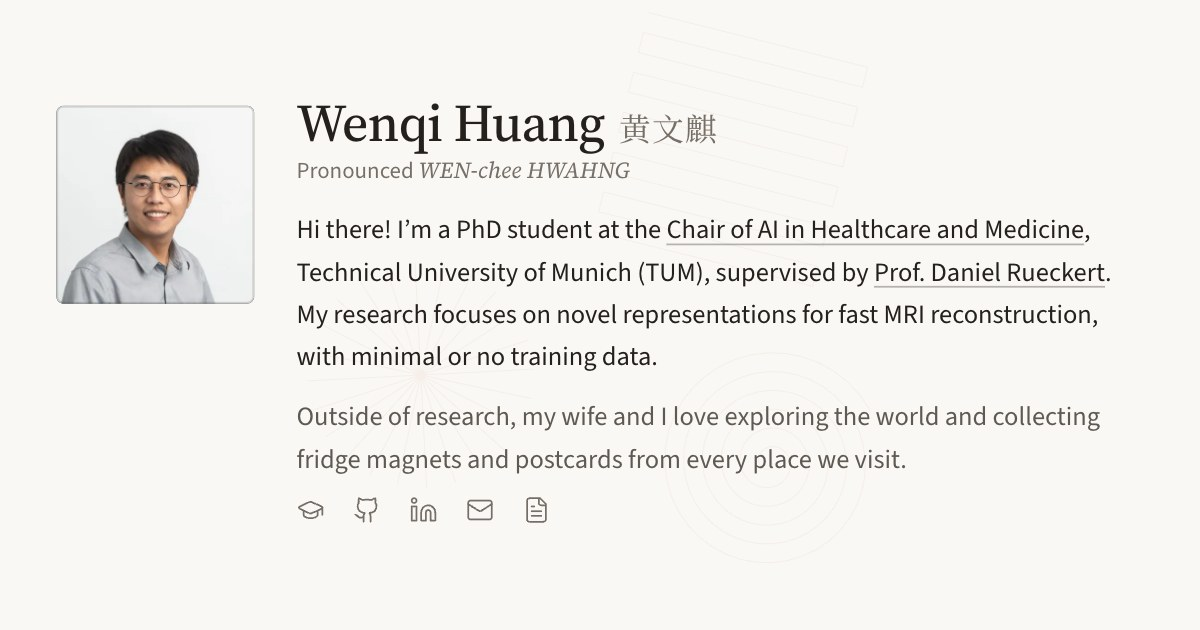
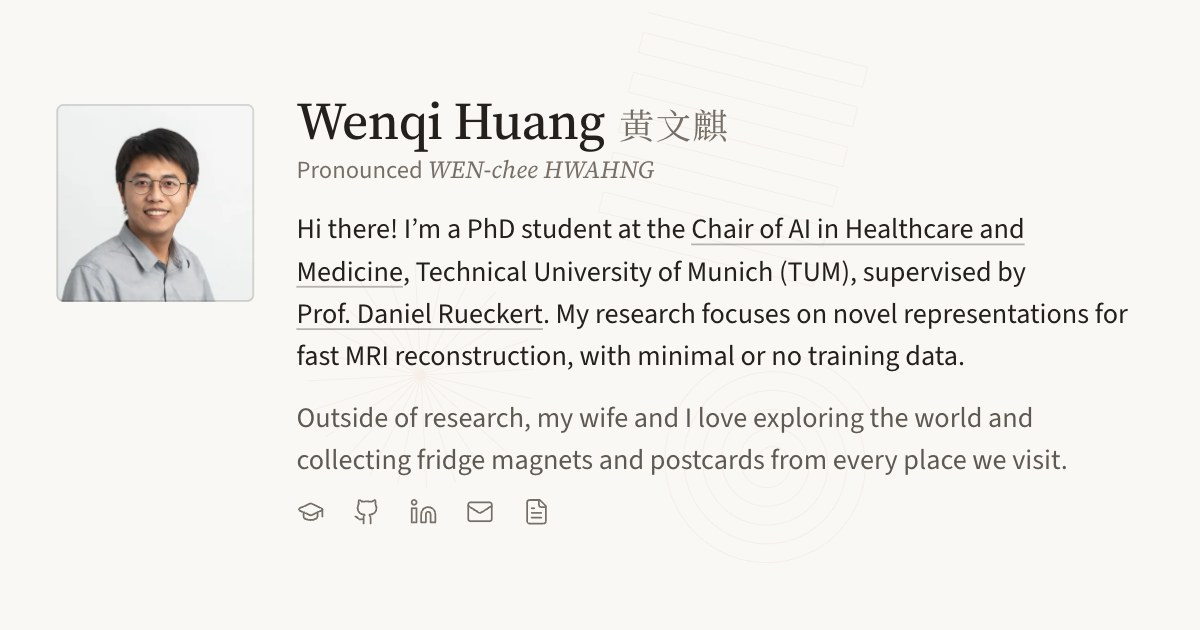
Set the text one size up
- Body and paper titles 15 -> 16px, meta, authors, details and nav 13 -> 14px,
  section headings and the Chinese name 18 -> 20px; tags stay 11px. The map
  tooltip joins the scale at 14/20, and the 404 page follows
- Meta column 112 -> 120px with a 16px gutter so 14px date ranges stay on one
  line; the text axis (136px), the 480px text column and the 112px photo are
  unchanged
- Link-preview card re-rendered for the new hero size

diff --git a/index.html b/index.html
@@ -9,12 +9,12 @@
   <meta property="og:description" content="PhD student at TUM researching novel representations for fast MRI reconstruction.">
   <meta property="og:type" content="website">
   <meta property="og:url" content="https://wenqihuang.me/">
-  <meta property="og:image" content="https://wenqihuang.me/images/og-card.jpg?v=20261011">
+  <meta property="og:image" content="https://wenqihuang.me/images/og-card.jpg?v=20261011.2">
   <meta property="og:image:width" content="1200">
   <meta property="og:image:height" content="630">
   <meta property="og:image:alt" content="Wenqi Huang, PhD student at TUM: photo, name and a short research bio">
   <meta name="twitter:card" content="summary_large_image">
-  <meta name="twitter:image" content="https://wenqihuang.me/images/og-card.jpg?v=20261011">
+  <meta name="twitter:image" content="https://wenqihuang.me/images/og-card.jpg?v=20261011.2">
   <!-- kept in sync with the active palette's --color-bg by syncThemeColor() -->
   <meta name="theme-color" content="#FAF8F4" id="theme-color">
 
@@ -26,9 +26,9 @@
     /* =========================================================
        The site's only stylesheet, inlined so the first paint needs no extra request
 
-       Grid   112 meta column · 24 gutter · 480 text column (616 content)
+       Grid   120 meta column · 16 gutter · 480 text column (616 content); photo 112
               phones: 72 · 16
-       Type   30/36 name · 18/24 headings · 15/24 text · 13/20 meta · 11/16 tags
+       Type   30/36 name · 20/28 headings · 16/24 text · 14/20 meta · 11/16 tags
               serif (Source Serif 4) for names of things: the name, headings, paper titles
               sans (Source Sans 3) for prose and metadata
        Space  4px steps (8 12 16 24 48 64), measured from cap height to baseline:
@@ -134,9 +134,11 @@
       --font-cn: "Noto Serif SC", "Songti SC", serif;
       --font-mono: ui-monospace, "SF Mono", Menlo, monospace;
 
-      --col: 112px;
-      --gut: 24px;
+      /* 120 + 16: the text axis stays at 136 while 14px date ranges fit the meta column */
+      --col: 120px;
+      --gut: 16px;
       --axis: calc(var(--col) + var(--gut));
+      --photo: 112px;
       --nav-h: 56px;
       --hair: 1px;
       --size-xs: 11px;
@@ -188,7 +190,7 @@
       margin: 0;
       background: var(--color-bg);
       color: var(--color-text);
-      font: 400 15px/24px var(--font-sans);
+      font: 400 16px/24px var(--font-sans);
       font-kerning: normal;
       font-variant-ligatures: common-ligatures;
       -webkit-font-smoothing: antialiased;
@@ -218,7 +220,7 @@
       padding: 8px 12px;
       background: var(--color-text);
       color: var(--color-bg);
-      font-size: 13px;
+      font-size: 14px;
       line-height: 20px;
     }
 
@@ -301,7 +303,7 @@
     }
 
     .nav .nav-logo {
-      font: 500 15px/24px var(--font-serif);
+      font: 500 16px/24px var(--font-serif);
       letter-spacing: -0.005em;
       color: var(--color-text);
     }
@@ -331,7 +333,7 @@
       display: inline-flex;
       align-items: center;
       min-height: 32px;
-      font-size: 13px;
+      font-size: 14px;
       line-height: 20px;
       font-weight: 500;
       color: var(--color-text-secondary);
@@ -453,8 +455,8 @@
     .kphoto {
       position: relative;
       display: block;
-      width: var(--col);
-      height: var(--col);
+      width: var(--photo);
+      height: var(--photo);
       padding: 0;
       border: 0;
       border-radius: 4px;
@@ -521,7 +523,7 @@
     .nm .cn {
       margin-left: 8px;
       font-family: var(--font-cn);
-      font-size: 18px;
+      font-size: 20px;
       font-weight: 400;
       line-height: 1;
       letter-spacing: 0.04em;
@@ -530,7 +532,7 @@
 
     .say {
       margin-top: 12px;
-      font-size: 13px;
+      font-size: 14px;
       line-height: 20px;
       color: var(--color-text-tertiary);
     }
@@ -630,7 +632,7 @@
 
     .sh {
       margin-bottom: 16px;
-      font: 500 18px/24px var(--font-serif);
+      font: 500 20px/28px var(--font-serif);
       letter-spacing: -0.005em;
       color: var(--color-text);
     }
@@ -653,7 +655,7 @@
     }
 
     .shw .sub {
-      font-size: 13px;
+      font-size: 14px;
       line-height: 20px;
       color: var(--color-text-secondary);
       transition: color 0.2s ease;
@@ -674,7 +676,7 @@
     }
 
     .meta {
-      font-size: 13px;
+      font-size: 14px;
       line-height: 20px;
       color: var(--color-text-tertiary);
       font-variant-numeric: tabular-nums;
@@ -697,7 +699,7 @@
     /* paper titles are serif at text size everywhere */
     .t {
       display: block;
-      font: 500 15px/24px var(--font-serif);
+      font: 500 16px/24px var(--font-serif);
       letter-spacing: -0.003em;
       color: var(--color-text);
       transition: color 0.2s ease;
@@ -707,7 +709,7 @@
 
     .au {
       margin-top: 12px;
-      font-size: 13px;
+      font-size: 14px;
       line-height: 20px;
       color: var(--color-text-secondary);
     }
@@ -717,7 +719,7 @@
     .ln { display: flex; flex-wrap: wrap; gap: 0 16px; margin-top: 12px; }
 
     .ln a {
-      font-size: 13px;
+      font-size: 14px;
       line-height: 20px;
       font-weight: 500;
       color: var(--color-text-secondary);
@@ -740,13 +742,13 @@
 
     .tt {
       margin-top: 8px;
-      font: 400 15px/24px var(--font-serif);
+      font: 400 16px/24px var(--font-serif);
       color: var(--color-text-secondary);
     }
 
     .dt {
       margin-top: 8px;
-      font-size: 13px;
+      font-size: 14px;
       line-height: 20px;
       color: var(--color-text-secondary);
     }
@@ -811,7 +813,7 @@
       border-radius: 999px;
       box-shadow: inset 0 0 0 var(--hair) var(--color-divider);
       background: none;
-      font: 400 13px/20px var(--font-sans);
+      font: 400 14px/20px var(--font-sans);
       color: var(--color-text-secondary);
       cursor: pointer;
       transition: box-shadow 0.2s ease, color 0.2s ease;
@@ -834,7 +836,7 @@
       padding: 0;
       border: 0;
       background: none;
-      font: 400 13px/20px var(--font-sans);
+      font: 400 14px/20px var(--font-sans);
       color: var(--color-text-secondary);
       cursor: pointer;
       transition: color 0.2s ease;
@@ -1116,8 +1118,8 @@
       border: 1px solid var(--color-divider);
       border-radius: 6px;
       box-shadow: var(--shadow-md);
-      font-size: 0.75rem;
-      line-height: 1.45;
+      font-size: 14px;
+      line-height: 20px;
       color: var(--color-text);
       pointer-events: none;
     }
@@ -1147,7 +1149,7 @@
       flex-wrap: wrap;
       gap: 4px 24px;
       margin-top: 16px;
-      font-size: 13px;
+      font-size: 14px;
       line-height: 20px;
       color: var(--color-text-secondary);
     }
@@ -1180,20 +1182,20 @@
     }
 
     .copy {
-      font-size: 13px;
+      font-size: 14px;
       line-height: 20px;
       color: var(--color-text-tertiary);
       font-variant-numeric: tabular-nums;
     }
 
-    /* "© 2026 Wenqi Huang" is within a pixel of the 112px column, so engines disagree on whether
+    /* "© 2026 Wenqi Huang" is about as wide as the meta column, so engines disagree on whether
        it fits; the name always takes its own line instead */
     .copy .nw { display: block; }
 
     .flinks { display: flex; flex-wrap: wrap; gap: 4px 16px; }
 
     .flinks a {
-      font-size: 13px;
+      font-size: 14px;
       line-height: 20px;
       font-weight: 500;
       color: var(--color-text-secondary);
@@ -1230,7 +1232,7 @@
       box-shadow: inset 0 0 0 var(--hair) var(--color-divider);
       background: var(--color-bg);
       color: var(--color-text-secondary);
-      font: 400 15px/1 var(--font-sans);
+      font: 400 16px/1 var(--font-sans);
       cursor: pointer;
       opacity: 0;
       visibility: hidden;
@@ -1250,7 +1252,7 @@
 
     /* --- Phones: 72 + 16 columns, rows stack --- */
     @media screen and (max-width: 640px) {
-      :root { --col: 72px; --gut: 16px; }
+      :root { --col: 72px; --gut: 16px; --photo: 72px; }
 
       .wrap { padding-inline: 16px; }
 
@@ -1283,7 +1285,7 @@
       }
 
       .nav-links li { box-shadow: inset 0 var(--hair) 0 var(--color-divider); }
-      .nav-links a { min-height: 44px; font-size: 15px; line-height: 24px; }
+      .nav-links a { min-height: 44px; font-size: 16px; line-height: 24px; }
       .nav-links a::after { display: none; }
       .nav-links a.nav-cv { min-height: 44px; padding: 0; border-radius: 0; box-shadow: none; }
       .theme-toggle { width: 44px; height: 44px; margin: 0 0 0 -14px; }

diff --git a/404.html b/404.html
@@ -88,8 +88,8 @@
       margin-bottom: 0.5rem;
     }
     .subtitle {
-      font-size: 0.9375rem;
-      line-height: 1.6;
+      font-size: 1rem;
+      line-height: 1.5;
       color: var(--secondary);
       margin-bottom: 2rem;
       max-width: 400px;
